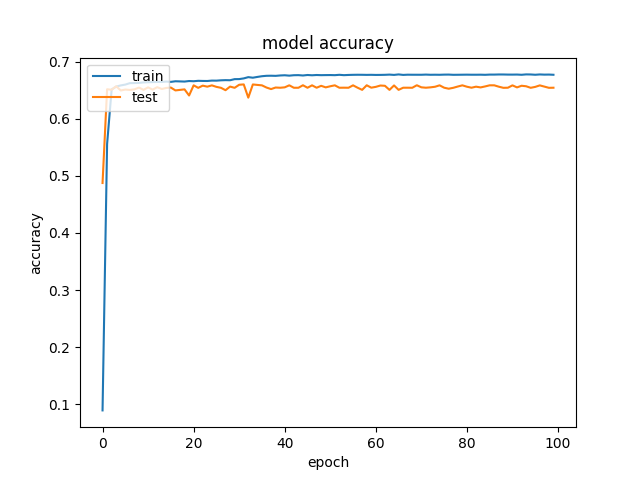
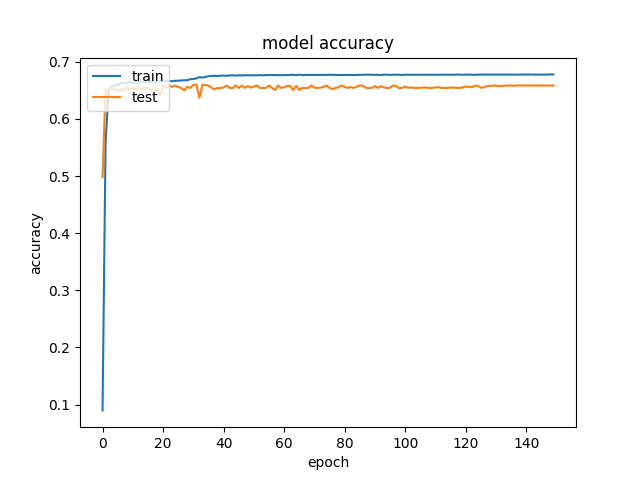
readme updated, 67 layered trained updated :chart_with_downwards_trend: :chart_with_upwards_trend:

diff --git a/train-tiramisu.py b/train-tiramisu.py
@@ -80,7 +80,7 @@ with open('tiramisu_fc_dense67_model_12.json') as model_file:
 
 # section 4.1 from the paper
 # optimizer = RMSprop(lr=0.001, decay=0.995)
-optimizer = SGD(lr=0.01, decay=0.995)
+optimizer = SGD(lr=0.01)
 # optimizer = Adam(lr=1e-3, decay=0.995)
 
 tiramisu.compile(loss="categorical_crossentropy", optimizer=optimizer, metrics=["accuracy"])

diff --git a/readme.md b/readme.md
@@ -1,7 +1,9 @@
 ### The One Hundred Layers Tiramisu: Fully Convolutional DenseNets for Semantic Segmentation:
 ---
 
-*Work In Progress, Results can't be replicated yet with the model*
+*Work In Progress, Results can't be replicated yet with the models here*
+
+` feel free to open issues for suggestions:)`
 
 * Keras2 + TF used for the recent updates, which might cause with some confilict from previous version I had in here
 
@@ -42,6 +44,17 @@ What is The One Hundred Layers Tiramisu?
 
 -----
 
+#### Model Params:
+-----
+
+* RMSprop is used with Learnining Rete of 0.001 and weight decay 0.995
+	* However, using those got me nowhere, I switched to SGD and started tweaking the LR + Decay myself.
+* There are no details given about BatchNorm params, again I have gone with what the Original DenseNet paper had suggested.
+* Things to keep in mind perhaps:
+	* the weight inti: he_uniform (maybe change it around?)
+	* the regualzrazation too agressive?
+
+
 
 ### Repo (explanation):
 ---
@@ -74,7 +87,7 @@ What is The One Hundred Layers Tiramisu?
 	  
 | Models        | Acc           | Loss  | Notes |
 | ------------- |:-------------:| -----:|-------|
-| FC-DenseNet 67| ![model-results](./imgs/tiramisu-67-model-acc.png) | ![model-results](./imgs/tiramisu-67-model-loss.png) | 100 Epochs, SGD
+| FC-DenseNet 67| ![model-results](./imgs/tiramisu-67-model-acc.png) | ![model-results](./imgs/tiramisu-67-model-loss.png) | 150 Epochs, SGD
 
 ### To Do:
 ----
